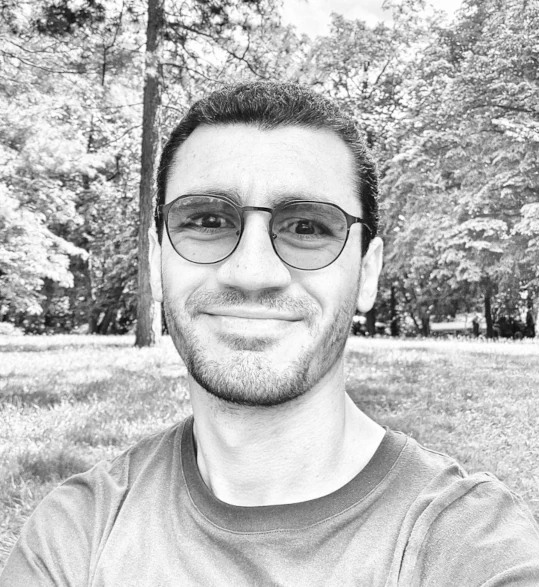
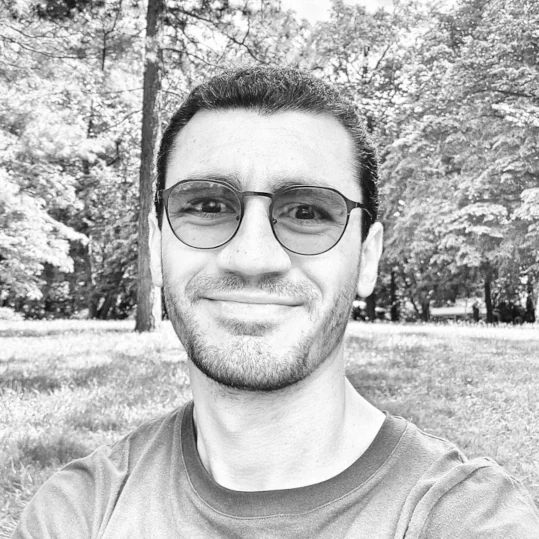
Add aspect ratio to image

diff --git a/website/css/styles.css b/website/css/styles.css
@@ -1,11 +1,10 @@
 :root {
-    --profile-size: 200px;
     --tech-icon-size: calc(4rem + 1vw);
 }
 
 .profile {
-    max-height: var(--profile-size);
-    max-width: var(--profile-size);
+    max-width: 200px;
+    aspect-ratio: 1 / 1;
 }
 
 .section {
